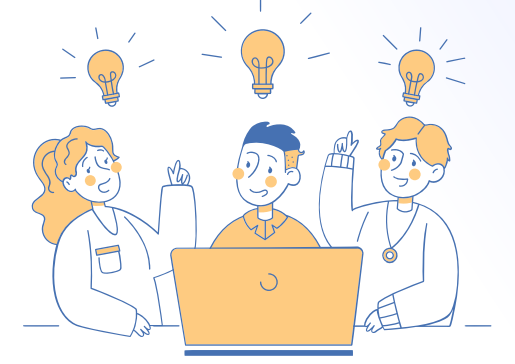
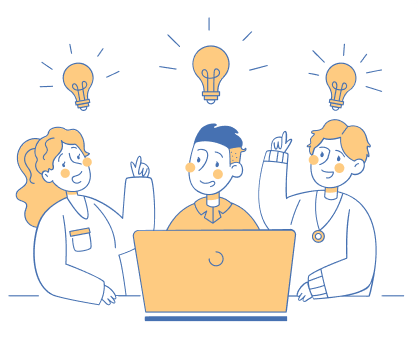
chore: Style login page per figma

diff --git a/src/Login.js b/src/Login.js
@@ -30,57 +30,60 @@ const Login = () => {
  
     return(
         <>
-            <div className="h-screen bg-gradient-to-l from-indigo-300 flex justify-center items-center ">
-            <main >        
-                <section className="flex justify-center" >
-                    <div className="flex flex-col w-96 ">
-                        <h1 className="text-4xl font-bold text-indigo-400 font-dm-sans">{`Let's start listening to your employees`}</h1>
+            <div className="h-screen bg-gradient-to-l from-indigo-300 to-60% flex justify-center items-center font-dm-sans">
+            <main className="mt-0" >        
+                <section className="flex justify-center gap-x-36 mt-0" >
+                    <div className="flex flex-col w-96 gap-y-6" >
+                        <h1 className="text-4xl font-bold text-indigo-400">{`Let's start listening to your employees`}</h1>
                         <p className="text-sm text-align-left text-slate-500">Lorem ipsum dolor sit amet consectetur adipiscing eli mattis sit phasellus mollis sit aliquam sit nullam neque ultrices.</p>
-                        <img src= { Image } alt="Three cartoon people sitting in front of a computer with lightbulbs above their heads"></img>
+                    <div className="mt-24">
+                        <img src={ Image } alt="Three cartoon people sitting in front of a computer with lightbulbs above their heads"></img>
                     </div>
-                    <div className="flex flex-col border-4 bg-white rounded-xl m-8 p-3 space-y-4 w-96 h-80" >                                            
-                        <p className="text-xl font-bold text-indigo-400"> Login to your account </p>                                                     
-                        <form className="space-y-6">                                              
+                    </div>
+
+                    <div className="flex flex-col border-4 border-none bg-white rounded-xl m-8  pl-1 pr-8 pt-10 space-y-4 w-2/4 h-96 align-center" >                                            
+                        <p className="text-2xl font-semi-bold text-slate-500 mt-4 pl-36"> Login to your account </p>                                                     
+                        <form className="space-y-6 flex flex-col pl-16 pr-0">                                              
                             <div className="flex flex-col">
-                                <label htmlFor="email-address">
-                                    Email address
+                                <label htmlFor="email-address" className="text-xs font-light mb-1">
+                                    Work Email
                                 </label>
-                                <input className="border-2 rounded-lg space-x-2 text-sm"
+                                <input className="border-2 rounded-lg space-x-2 text-sm p-2 w-96"
                                     id="email-address"
                                     name="email"
                                     type="email"                                    
                                     required                                                                                
-                                    placeholder="Email address"
+                                    placeholder= "Enter your email"
                                     onChange={(e)=>setEmail(e.target.value)}
                                 />
                             </div>
 
                             <div className="flex flex-col">
-                                <label htmlFor="password">
+                                <label htmlFor="password" className="text-xs font-light mb-1">
                                     Password
                                 </label>
-                                <input className="border-2 rounded-lg space-x-2 text-sm"
+                                <input className="border-2 rounded-lg space-x-2 text-sm p-2 w-96"
                                     id="password"
                                     name="password"
                                     type="password"                                    
                                     required                                                                                
-                                    placeholder="Password"
+                                    placeholder="Enter your password"
                                     onChange={(e)=>setPassword(e.target.value)}
                                 />
                             </div>
                                                
                             <div>
-                                <button className="border-2 rounded-lg bg-indigo-400 text-white font-bold p-1.5"                                   
+                                <button className="border-2 rounded-lg bg-indigo-400 text-white font-bold p-1.5 w-96 font-thin text-xs p-3"                                   
                                     onClick={onLogin}                                        
                                 >      
-                                    Login                                                                  
+                                    Login now                                                                 
                                 </button>
                             </div> 
                                   
                         </form>
                        
-                        <p className="text-xs text-black text-center pt-6">
-                            No account yet? {' '}
+                        <p className="text-xs text-stone-300 text-center pl-6 pt-0">
+                             {`Don't Have An Account?`}{' '}
                             <NavLink to="/signup" className={"hover:text-indigo-400"}>
                                 Sign up
                             </NavLink>
